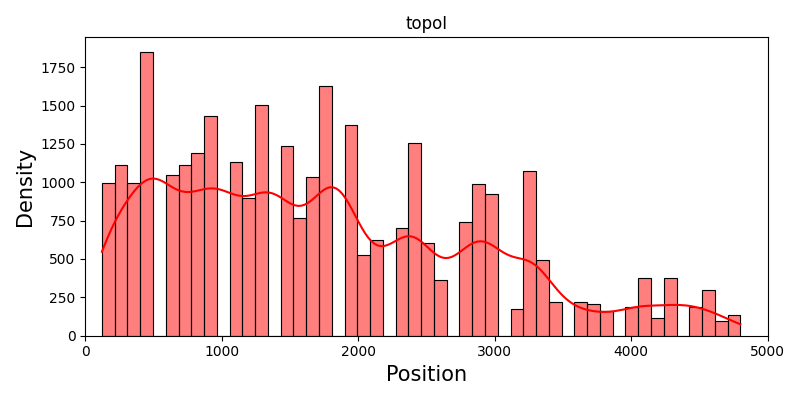
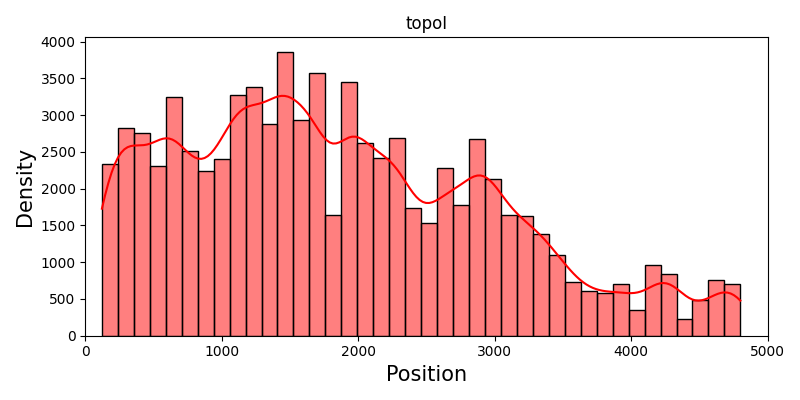
I added a new mec model for the RNAP, that includes torques but not rotation. With this model, RNAPs might stall and their velocity will vary according the resulting torques. I also added an example where I can track the activity of enzymes, including topos and RNAPs.

diff --git a/TORCphysics/Examples/track_position/plot_tracking.py b/TORCphysics/Examples/track_position/plot_tracking.py
@@ -11,7 +11,7 @@ import seaborn as sns
 # Inputs
 # ---------------------------------------------------------
 circuit_name = 'lineartest'
-n_sims = 48
+n_sims = 120
 out = ['uniform', 'stall']
 paths = ['RNAP_uniform/', 'RNAP_stall/'] #['no_bridge/multiple_runs/', 'bridge/multiple_runs/']
 dt = 0.25
@@ -69,7 +69,7 @@ for p, path in enumerate(paths):
 
     #topoI
     fig, axs = plt.subplots(1, figsize=(width, height), tight_layout=True)
-    sns.histplot(topoI, kde=True, bins=50, ax=axs, color='red', label='topoI')
+    sns.histplot(topoI, kde=True, bins=40, ax=axs, color='red', label='topoI')
     axs.set_ylabel('Density', fontsize=15)
     axs.set_xlabel('Position', fontsize=15)
     axs.set_xlim(0, 5000)
@@ -78,7 +78,7 @@ for p, path in enumerate(paths):
 
     #gyrase
     fig, axs = plt.subplots(1, figsize=(width, height), tight_layout=True)
-    sns.histplot(gyrase, kde=True, bins=50, ax=axs, color='cyan', label='gyrase')
+    sns.histplot(gyrase, kde=True, bins=40, ax=axs, color='cyan', label='gyrase')
     axs.set_ylabel('Density', fontsize=15)
     axs.set_xlabel('Position', fontsize=15)
     axs.set_xlim(0, 5000)

diff --git a/TORCphysics/Examples/track_position/RNAP_stall/run_simulation.py b/TORCphysics/Examples/track_position/RNAP_stall/run_simulation.py
@@ -3,7 +3,7 @@ from TORCphysics import parallelization_tools as pt
 
 
 # Parallel stuff
-n_simulations = 48  # 48 #96 #120
+n_simulations = 120  # 48 #96 #120
 
 # Let's initialize circuit
 circuit_filename = 'circuit2.csv'

diff --git a/TORCphysics/Examples/track_position/RNAP_uniform/run_simulation.py b/TORCphysics/Examples/track_position/RNAP_uniform/run_simulation.py
@@ -3,7 +3,7 @@ from TORCphysics import parallelization_tools as pt
 
 
 # Parallel stuff
-n_simulations = 48  # 48 #96 #120
+n_simulations = 120  # 48 #96 #120
 
 # Let's initialize circuit
 circuit_filename = 'circuit2.csv'
